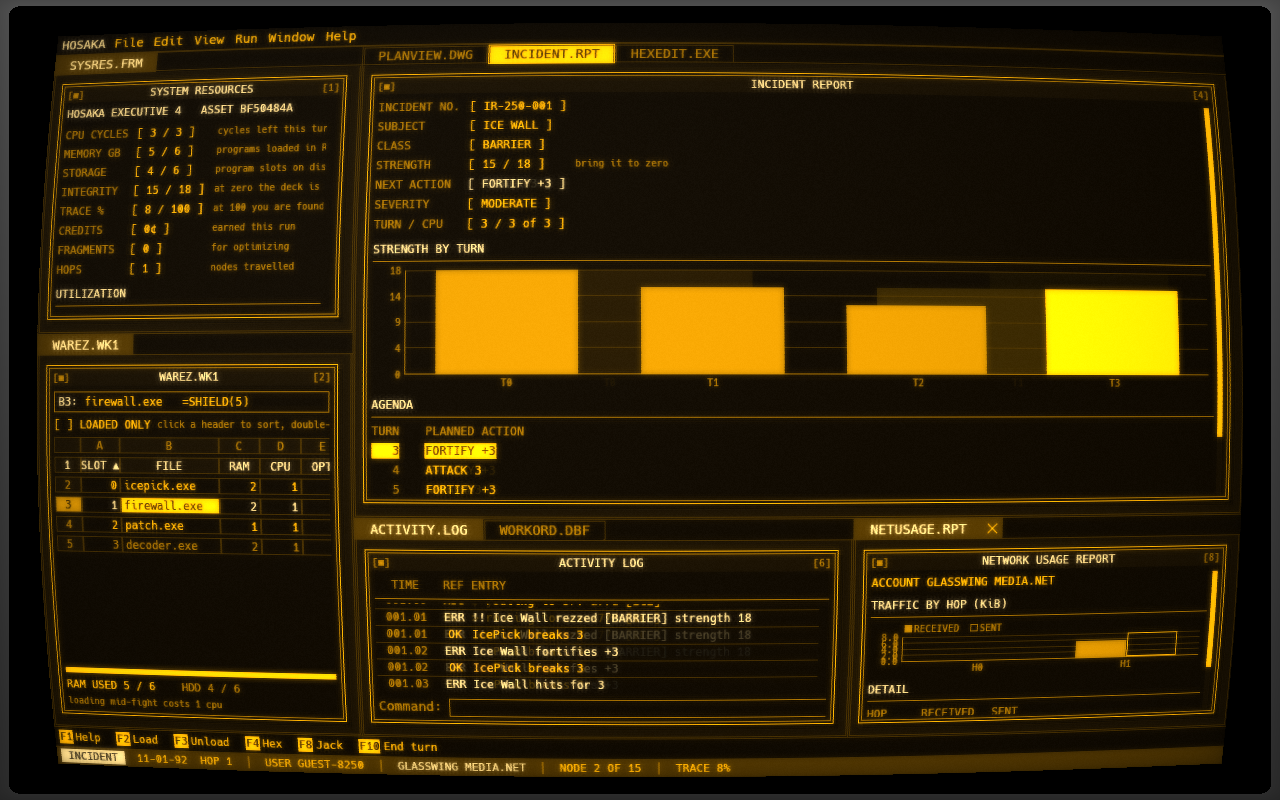
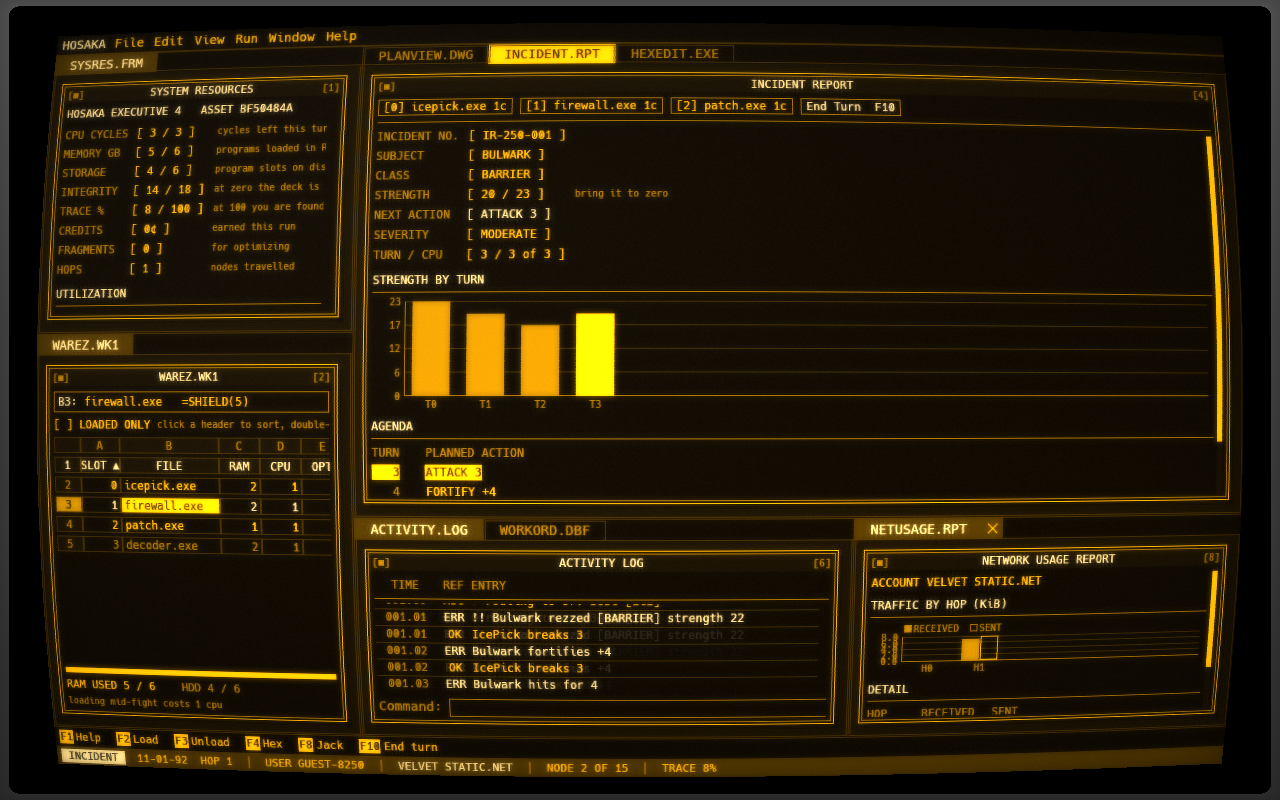
Suite: run buttons in a toolbar above the incident report
The run and End Turn buttons sat under the report and scrolled out of
view when a fight started. They're now a toolbar under the title bar,
always on screen, labelled with each program's hotkey digit. Column
charts cap their column width, so a short fight isn't one wide block.

Claude-Session: https://claude.ai/code/session_01Lh5QfeLeTcyoAPvScBu9X2

diff --git a/crates/app/src/suite.rs b/crates/app/src/suite.rs
@@ -34,6 +34,8 @@ pub mod size {
     pub const CHART_MAX: f32 = 150.0;
     /// Upcoming turns the incident report's agenda lists.
     pub const AGENDA_ROWS: usize = 5;
+    /// Widest a column chart's group of columns gets, so a short fight isn't one wall.
+    pub const COL_SLOT_MAX: f32 = 56.0;
     pub const DIALOG_W: f32 = 420.0;
 }
 
@@ -221,11 +223,17 @@ fn axes(
 }
 
 /// X labels under a plot, thinned so they don't collide.
-fn x_labels(painter: &Painter, plot: Rect, p: &Palette, n: usize, label: impl Fn(usize) -> String) {
+fn x_labels(
+    painter: &Painter,
+    plot: Rect,
+    p: &Palette,
+    n: usize,
+    slot: f32,
+    label: impl Fn(usize) -> String,
+) {
     if n == 0 {
         return;
     }
-    let slot = plot.width() / n as f32;
     let every = ((28.0 / slot).ceil() as usize).max(1);
     for i in (0..n).step_by(every) {
         painter.text(
@@ -337,7 +345,7 @@ fn line_chart(ui: &mut Ui, p: &Palette, h: f32, values: &[u32], max: u32, marks:
     for q in &pts {
         painter.rect_filled(Rect::from_center_size(*q, vec2(4.0, 4.0)), 0.0, p.bright);
     }
-    x_labels(&painter, plot, p, values.len(), |i| format!("H{i}"));
+    x_labels(&painter, plot, p, values.len(), slot, |i| format!("H{i}"));
 }
 
 /// A column chart: one group per x, one column per series (solid or outlined).
@@ -363,7 +371,7 @@ fn column_chart(
     if n == 0 {
         return;
     }
-    let slot = plot.width() / n as f32;
+    let slot = (plot.width() / n as f32).min(size::COL_SLOT_MAX);
     let k = series.len().max(1) as f32;
     let w = (slot * 0.7 / k).max(1.0);
     for (si, (_, vals, solid)) in series.iter().enumerate() {
@@ -379,7 +387,7 @@ fn column_chart(
             }
         }
     }
-    x_labels(&painter, plot, p, n, label);
+    x_labels(&painter, plot, p, n, slot, label);
 }
 
 /// A form: labelled fields with a one-line note each.
@@ -760,6 +768,36 @@ impl Panes<'_> {
         let ice = &g.data.ice[c.ice];
         let mut acts = Vec::new();
         window(ui, &p, Tab::Target.number(), "INCIDENT REPORT", |ui| {
+            // The toolbar: run buttons and End Turn, always in view above the report.
+            ui.horizontal_wrapped(|ui| {
+                for (i, s) in g.hdd.iter().enumerate().filter(|(_, s)| s.loaded) {
+                    let w = &s.spec;
+                    let class_hit =
+                        matches!(w.effect, Effect::Break { vs: Some(v), .. } if v == ice.class);
+                    let label = format!(
+                        "[{i}] {} {}c{}",
+                        w.file(),
+                        w.cpu,
+                        if class_hit { " x2" } else { "" }
+                    );
+                    if ui
+                        .add_enabled(
+                            c.cpu >= w.cpu,
+                            egui::Button::new(t(label, if class_hit { p.bright } else { p.fg })),
+                        )
+                        .on_hover_text(w.effect.describe())
+                        .clicked()
+                    {
+                        acts.push(Action::Run(i));
+                    }
+                }
+                if ui.button(t("End Turn  F10", p.bright)).clicked() {
+                    acts.push(Action::EndTurn);
+                }
+            });
+            let (r, _) = ui.allocate_exact_size(vec2(ui.available_width(), 6.0), Sense::hover());
+            ui.painter()
+                .line_segment([r.left_center(), r.right_center()], Stroke::new(1.0, p.dim));
             let ch = chart_h(ui.available_height());
             page(ui, "suite-incident", |ui| {
                 let severity = match ice.tier {
@@ -843,36 +881,6 @@ impl Panes<'_> {
                             ui.end_row();
                         }
                     });
-                ui.add_space(6.0);
-                ui.horizontal_wrapped(|ui| {
-                    for (i, s) in g.hdd.iter().enumerate().filter(|(_, s)| s.loaded) {
-                        let w = &s.spec;
-                        let class_hit =
-                            matches!(w.effect, Effect::Break { vs: Some(v), .. } if v == ice.class);
-                        let label = format!(
-                            "[ Run {} ({}c){} ]",
-                            w.file(),
-                            w.cpu,
-                            if class_hit { " x2" } else { "" }
-                        );
-                        if ui
-                            .add_enabled(
-                                c.cpu >= w.cpu,
-                                egui::Button::new(t(
-                                    label,
-                                    if class_hit { p.bright } else { p.fg },
-                                )),
-                            )
-                            .on_hover_text(w.effect.describe())
-                            .clicked()
-                        {
-                            acts.push(Action::Run(i));
-                        }
-                    }
-                    if ui.button(t("[ End Turn  F10 ]", p.bright)).clicked() {
-                        acts.push(Action::EndTurn);
-                    }
-                });
             });
         });
         for a in acts {
